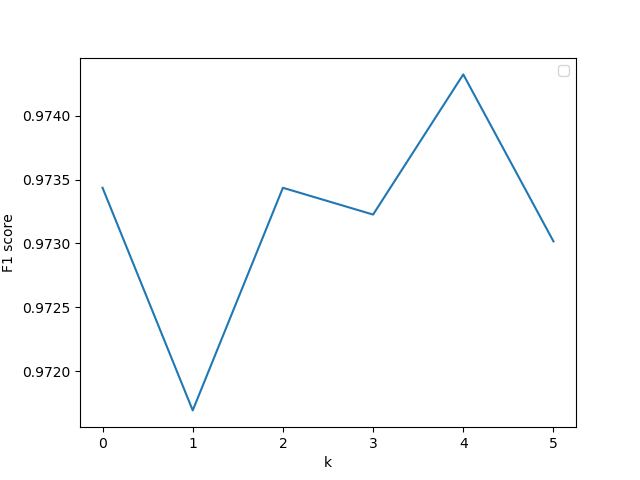
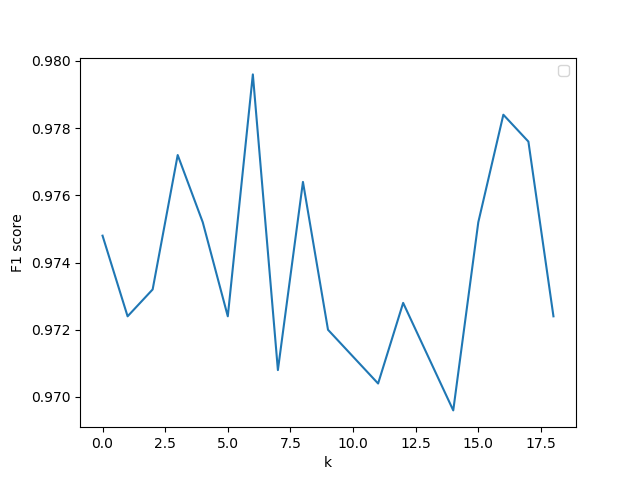
running knn for data2_x_tr.csv

diff --git a/CV3/CV3_2.py b/CV3/CV3_2.py
@@ -11,6 +11,7 @@ def knn(D, Y, k, num_samles = -1):
     :param D: Distance matrix
     :param Y: Labels
     :param k: k
+    :param num_samles: how many labels shoudl be randomly selected and checked
     :return: recalculated labels for each element
     """
     sample_size = Y.size
@@ -39,7 +40,7 @@ D = pairwise_distances(X, metric='manhattan')
 
 results = []
 for k in range(1, 20):
-    Y_pred, Y_indexes = knn(D, Y, k, num_samles=15000)
+    Y_pred, Y_indexes = knn(D, Y, k, num_samles=2500)
     f1 = f1_score(np.take(Y,Y_indexes).astype(int), Y_pred.astype(int), average='micro')
     results.append(f1)
     print("*** F1 for k:" + str(k) + " score: " + str(f1))
